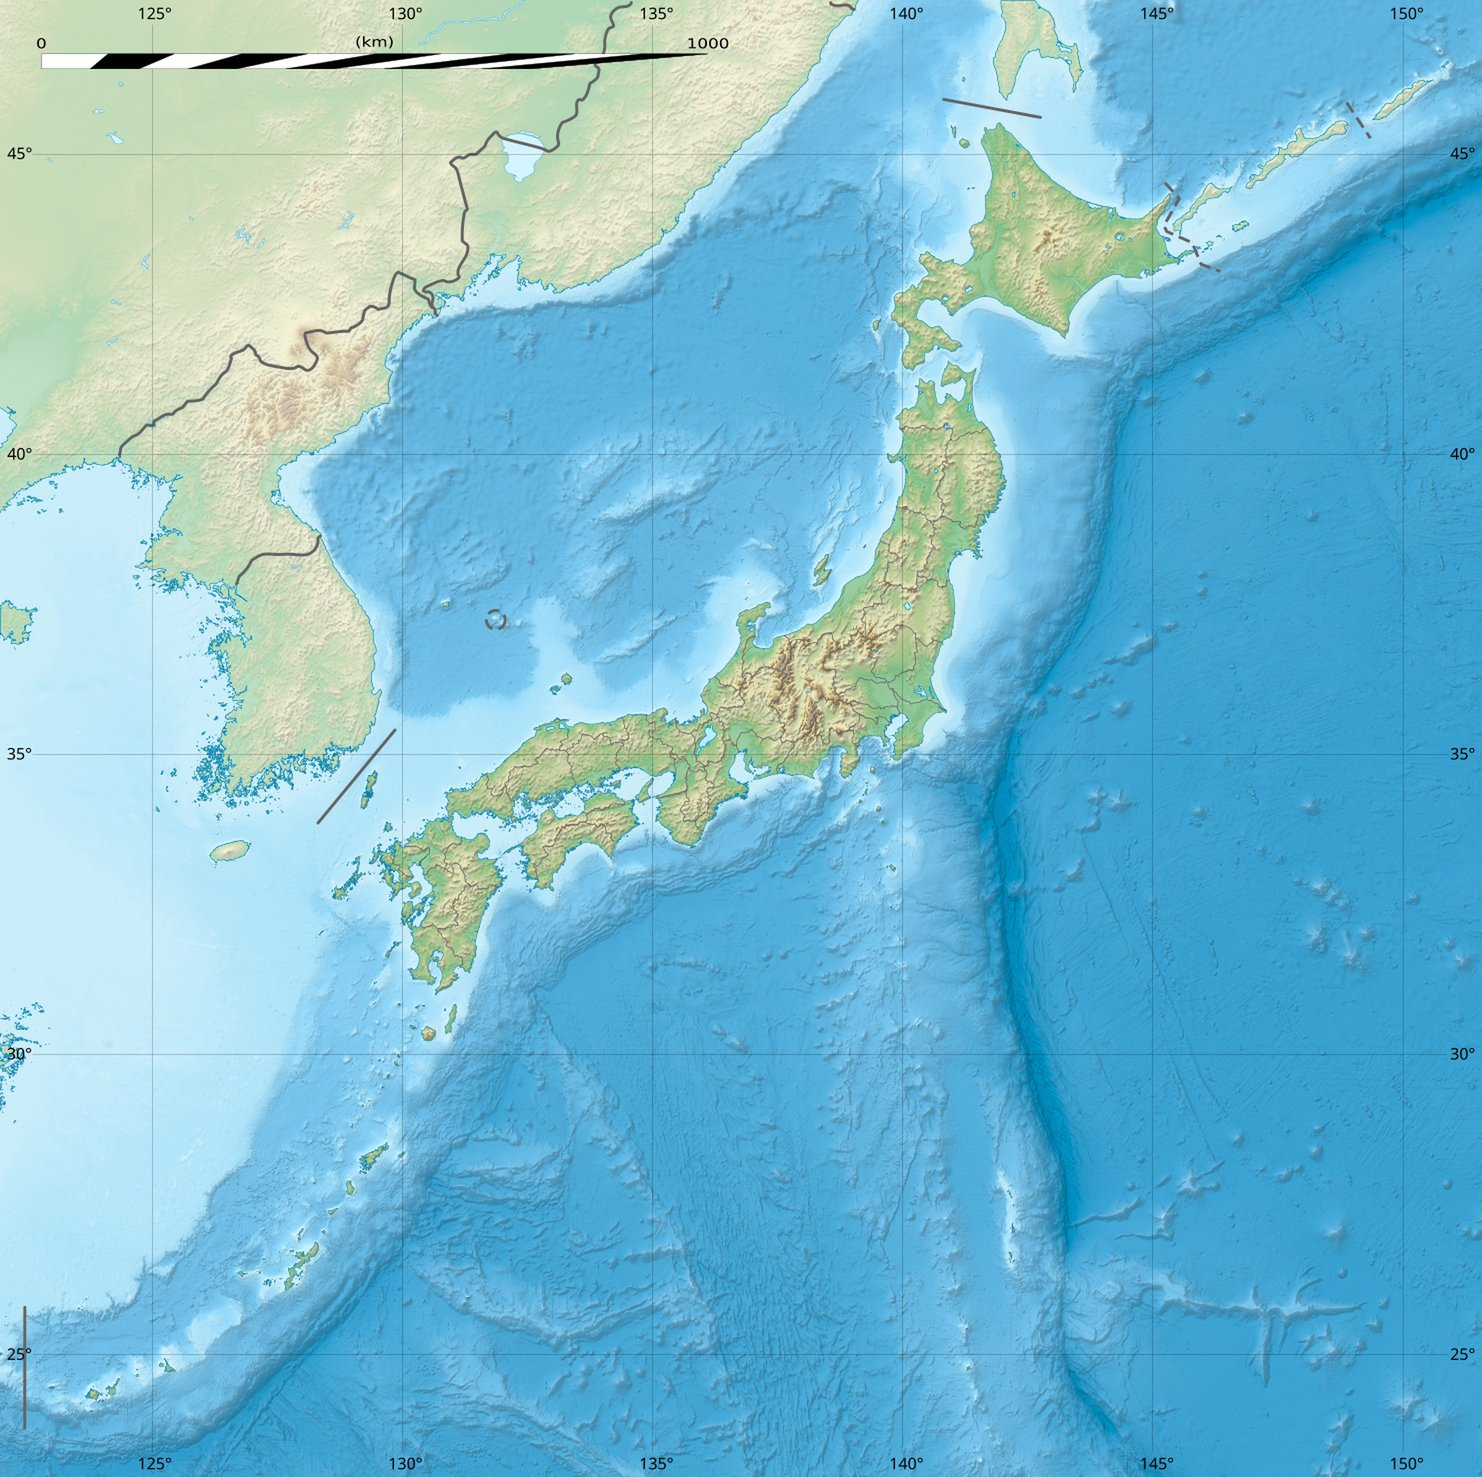
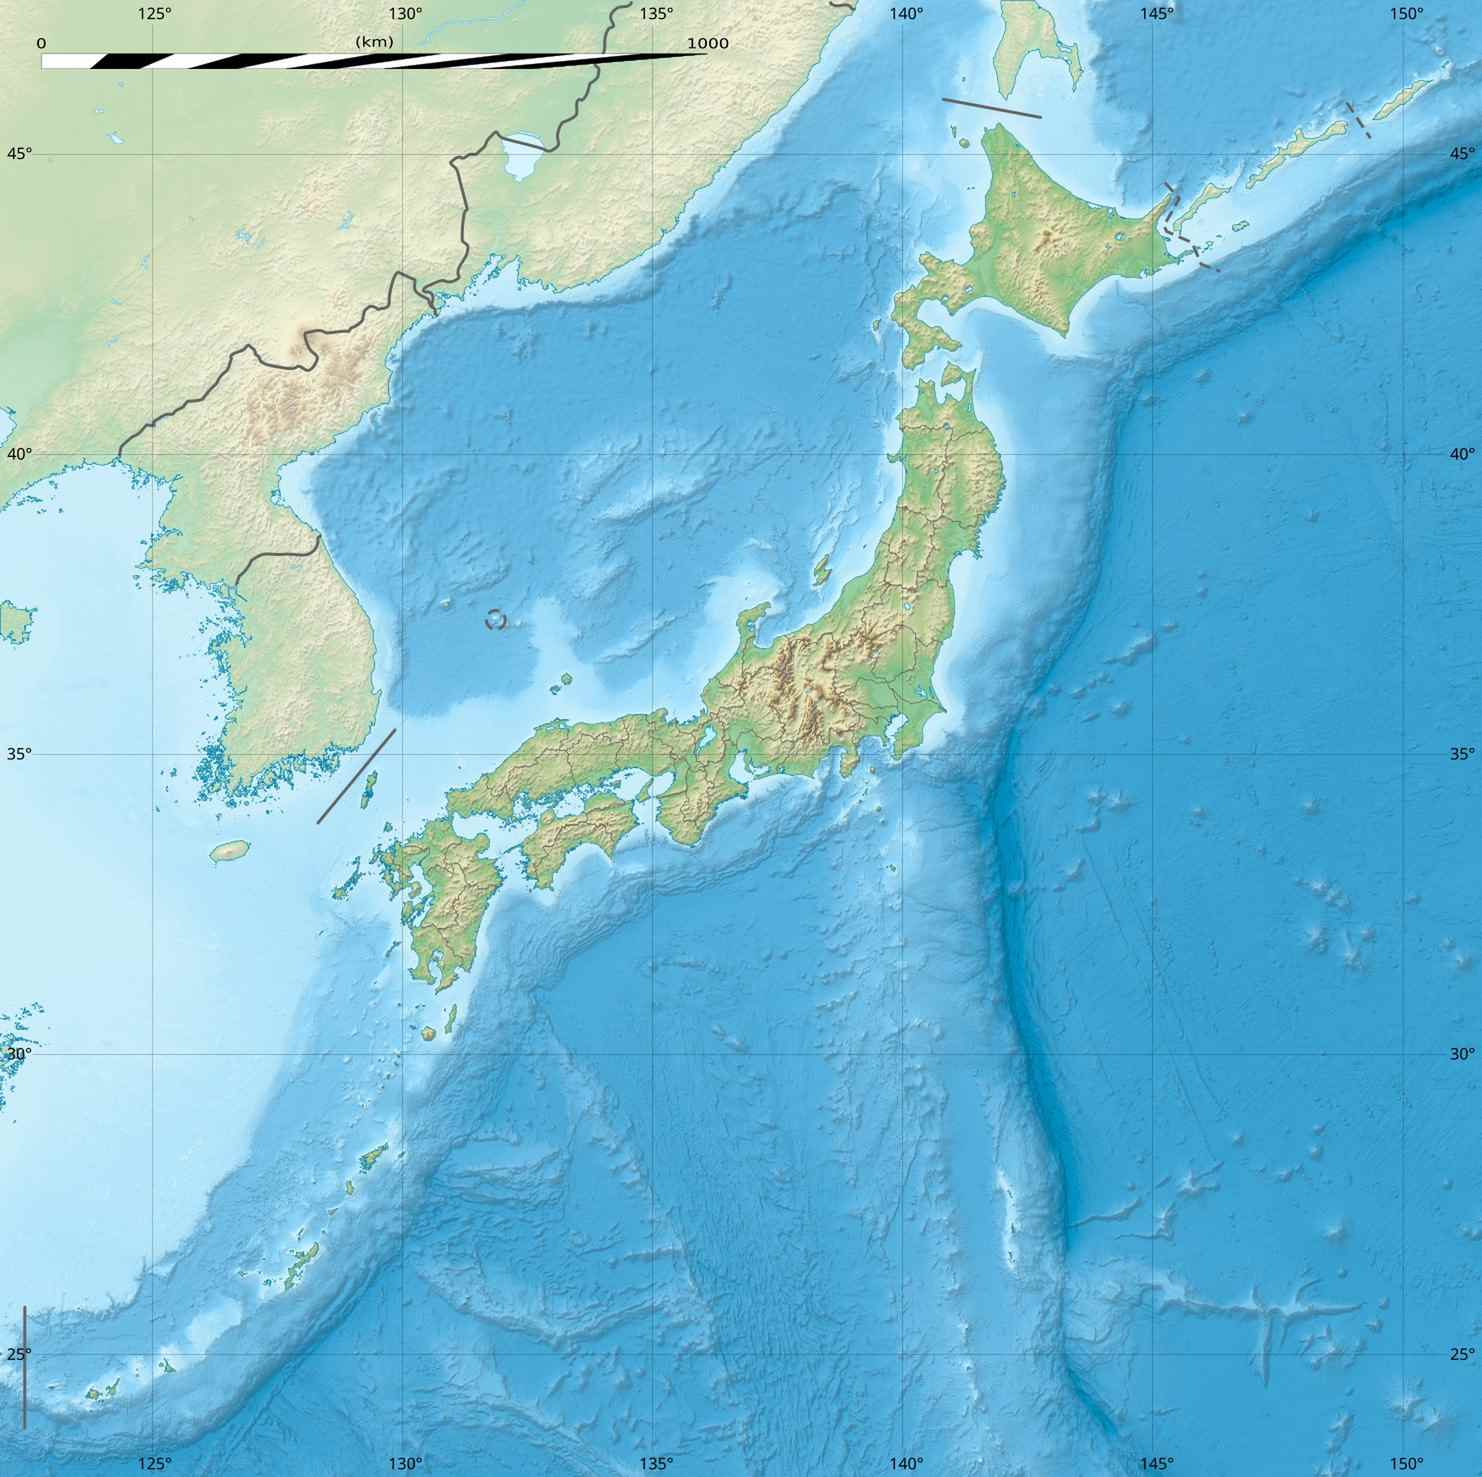
perf(maps): Japan relief WebP+JPEG like China #7 (#14)
Re-encode japan_relief_display at 1482×1477 (JPEG q38 ~129KB,
WebP q48 ~109KB) and load WebP via <picture> with JPG fallback
on Sengoku, Heian/Bakumatsu EraMapView, and Japan era overview.

diff --git a/src/japanHistory/components/JapanEraMap.tsx b/src/japanHistory/components/JapanEraMap.tsx
@@ -66,12 +66,24 @@ export function JapanEraMap() {
           onPointerCancel={view.onPointerUp}
         >
           <div className="era-map__zoom-layer" style={view.layerStyle}>
-            <img
-              className="era-map__photo"
-              src={SENGOKU_BASEMAP.src}
-              alt=""
-              draggable={false}
-            />
+            {SENGOKU_BASEMAP.srcWebp ? (
+              <picture>
+                <source type="image/webp" srcSet={SENGOKU_BASEMAP.srcWebp} />
+                <img
+                  className="era-map__photo"
+                  src={SENGOKU_BASEMAP.src}
+                  alt=""
+                  draggable={false}
+                />
+              </picture>
+            ) : (
+              <img
+                className="era-map__photo"
+                src={SENGOKU_BASEMAP.src}
+                alt=""
+                draggable={false}
+              />
+            )}
             {year >= 1604 && year <= 1868 ? (
               <svg
                 className="era-map__marks"

diff --git a/src/sengoku/components/SengokuMap.tsx b/src/sengoku/components/SengokuMap.tsx
@@ -64,12 +64,24 @@ export function SengokuMap() {
         onPointerCancel={view.onPointerUp}
       >
         <div className="map-2d__zoom-layer" style={view.layerStyle}>
-        <img
-          className="map-2d__basemap"
-          src={basemap.src}
-          alt={basemap.title}
-          draggable={false}
-        />
+        {basemap.srcWebp ? (
+          <picture>
+            <source type="image/webp" srcSet={basemap.srcWebp} />
+            <img
+              className="map-2d__basemap"
+              src={basemap.src}
+              alt={basemap.title}
+              draggable={false}
+            />
+          </picture>
+        ) : (
+          <img
+            className="map-2d__basemap"
+            src={basemap.src}
+            alt={basemap.title}
+            draggable={false}
+          />
+        )}
         <svg
           className="map-2d__overlay"
           viewBox={`0 0 ${SENGOKU_MAP_W} ${SENGOKU_MAP_H}`}

diff --git a/src/japanEras/EraMapView.tsx b/src/japanEras/EraMapView.tsx
@@ -99,12 +99,24 @@ export function EraMapView({
         onPointerCancel={view.onPointerUp}
       >
         <div className="map-2d__zoom-layer" style={view.layerStyle}>
-        <img
-          className="map-2d__basemap"
-          src={basemap.src}
-          alt={ariaLabel}
-          draggable={false}
-        />
+        {basemap.srcWebp ? (
+          <picture>
+            <source type="image/webp" srcSet={basemap.srcWebp} />
+            <img
+              className="map-2d__basemap"
+              src={basemap.src}
+              alt={ariaLabel}
+              draggable={false}
+            />
+          </picture>
+        ) : (
+          <img
+            className="map-2d__basemap"
+            src={basemap.src}
+            alt={ariaLabel}
+            draggable={false}
+          />
+        )}
         <svg
           className="map-2d__overlay"
           viewBox={`0 0 ${SENGOKU_MAP_W} ${SENGOKU_MAP_H}`}

diff --git a/src/sengoku/data/basemaps.ts b/src/sengoku/data/basemaps.ts
@@ -5,7 +5,10 @@
 
 export interface SengokuBasemap {
   id: string
+  /** JPEG fallback (all browsers) */
   src: string
+  /** Optional WebP; Japan maps serve via `<picture>` when set */
+  srcWebp?: string
   title: string
   credit: string
   license: string
@@ -16,8 +19,9 @@ const base = import.meta.env.BASE_URL
 
 export const SENGOKU_BASEMAP: SengokuBasemap = {
   id: 'japan-relief',
-  /** 顯示用縮小版；原檔約 5900² 解碼過慢 */
+  /** 顯示用 1482×1477（大名座標）；原檔約 5900² 解碼過慢 */
   src: `${base}maps/japan_relief_display.jpg`,
+  srcWebp: `${base}maps/japan_relief_display.webp`,
   title: '現代日本列島地勢（平安、戰國、幕末、江戶共用）',
   credit: '維基共享資源〈Japan relief location map.jpg〉· Eric Gaba（Sting）',
   license: 'CC BY-SA',

diff --git a/src/App.css b/src/App.css
@@ -2299,6 +2299,14 @@ html[data-theme='light'] .app-footer {
   transform-origin: 0 0;
 }
 
+.era-map__zoom-layer picture {
+  display: block;
+  position: absolute;
+  inset: 0;
+  width: 100%;
+  height: 100%;
+}
+
 .era-map__photo {
   position: absolute;
   inset: 0;
